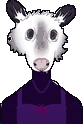
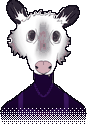
Tidy Ozzie's portrait
- Clear leftover checkerboard specks from her shoulders and arms
- The bottom of the drawing dissolves into the dark instead of a hard edge
- Both expressions are cropped to line up, so her head doesn't change
  size when she looks worried

diff --git a/tools/cutout_drawing.py b/tools/cutout_drawing.py
@@ -2,7 +2,9 @@
 background shows as a grey-and-white checkerboard, then shrink it to fit
 the game with the same moody shading as the masks.
 
-Usage: py -3 tools/cutout_drawing.py <screenshot> <out.png> <height> [top bottom]
+Usage: py -3 tools/cutout_drawing.py <screenshot> <out.png> <height> [top bottom] [box=l,t,r,b]
+
+Pass the same box for different expressions of one drawing so they line up exactly.
 """
 import sys
 from collections import deque
@@ -72,12 +74,24 @@ for y in range(h):
 alpha = alpha.filter(ImageFilter.MinFilter(3)).filter(ImageFilter.MaxFilter(3))
 
 box = alpha.getbbox()
+if len(sys.argv) > 6:
+    box = tuple(int(v) for v in sys.argv[6].split(','))   # same crop for every expression
 im, alpha = im.crop(box), alpha.crop(box)
 im.putalpha(alpha)
 im.save(out.replace('.png', '_full.png'))
 
 # shave the pale fringe left over from the checkerboard off the edges
 alpha = alpha.filter(ImageFilter.MinFilter(5))
+# below the head her body is all dark clothes, so any light specks down there
+# (around the shoulders and arms) are leftover checkerboard: clear them
+iw, ih = im.size
+ap2, ipx = alpha.load(), im.convert('RGB').load()
+for y in range(int(ih * 0.62), ih):
+    for x in range(iw):
+        r, g, b = ipx[x, y]
+        if (r + g + b) / 3 > 140:
+            ap2[x, y] = 0
+alpha = alpha.filter(ImageFilter.MinFilter(3)).filter(ImageFilter.MaxFilter(3))
 # a light touch of mood: keep her colours (a little boost so they survive shrinking),
 # and just let the bottom sink a little into shadow
 rgb = ImageEnhance.Color(im.convert('RGB')).enhance(1.25)
@@ -89,9 +103,28 @@ nw = round(rgb.width * height / rgb.height)
 small = rgb.resize((nw, height), Image.LANCZOS).quantize(colors=64, dither=Image.Dither.NONE).convert('RGB')
 small_a = alpha.resize((nw, height), Image.LANCZOS).point(lambda v: 255 if v > 120 else 0)
 # a thin dark rim so the edges read cleanly against the dark doorway
+rim_a = small_a.filter(ImageFilter.MaxFilter(3))
+
+# the bottom of the drawing dissolves into the dark (dithered, to match the game's
+# pixel look) instead of ending in a hard straight edge
+BAYER = [0, 8, 2, 10, 12, 4, 14, 6, 3, 11, 1, 9, 15, 7, 13, 5]
+FADE = max(1, int(height * 0.18))
+sp, sa, ra = small.load(), small_a.load(), rim_a.load()
+for y in range(height - FADE, height):
+    t = (y - (height - FADE)) / FADE                     # 0 at the top of the fade -> 1 at the bottom
+    for x in range(nw):
+        r, g, b = sp[x, y]
+        k = 1 - t * 0.75
+        sp[x, y] = (int(r * k + 10 * (1 - k)), int(g * k + 8 * (1 - k)), int(b * k + 18 * (1 - k)))
+        if t * t > (BAYER[(y % 4) * 4 + (x % 4)] + 0.5) / 16:
+            sa[x, y] = 0; ra[x, y] = 0
+    for x in range(nw):                                  # the rim only belongs on the sides, not across the fade
+        if sa[x, y] == 0 and ra[x, y] and y > height - FADE // 2:
+            ra[x, y] = 0
+
 res = Image.new('RGBA', (nw, height), (0, 0, 0, 0))
 rim = Image.new('RGBA', (nw, height), (14, 10, 22, 255))
-res.paste(rim, (0, 0), small_a.filter(ImageFilter.MaxFilter(3)))
+res.paste(rim, (0, 0), rim_a)
 face = Image.new('RGBA', (nw, height), (0, 0, 0, 0))
 face.paste(small, (0, 0), small_a)
 res.alpha_composite(face)
